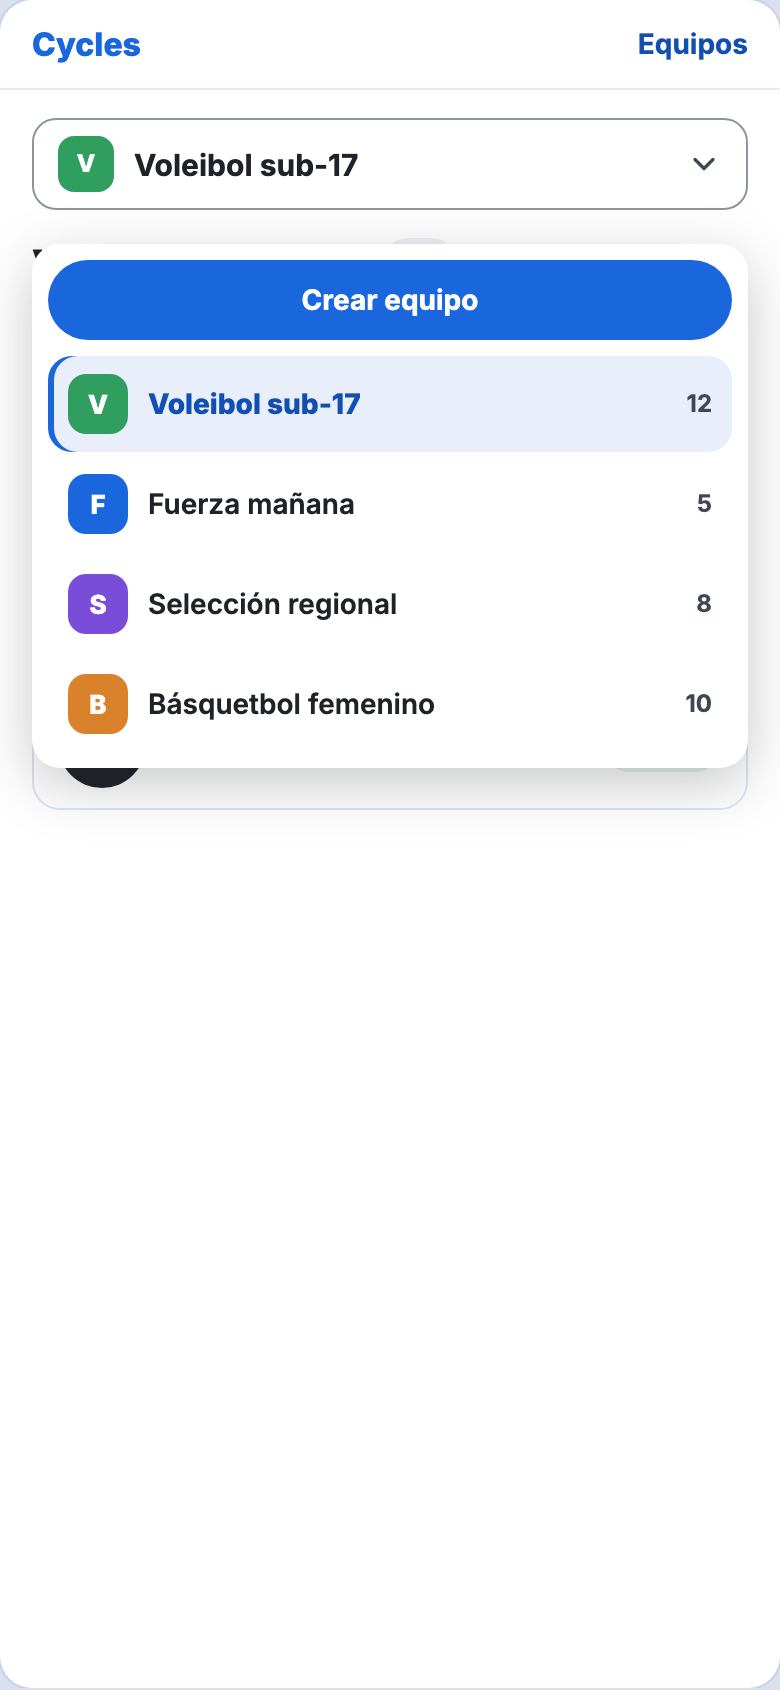
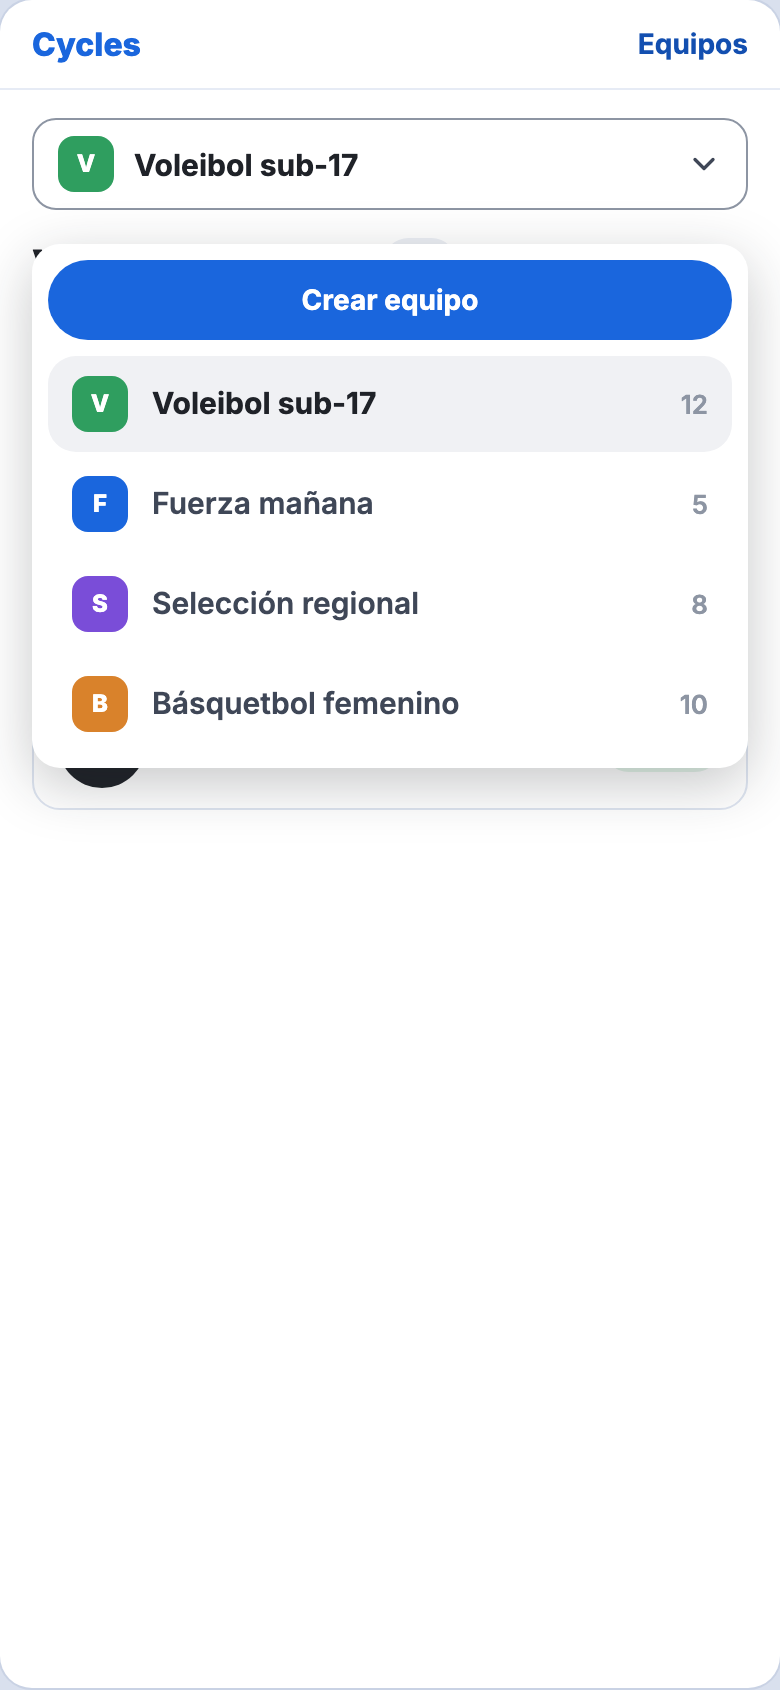
Equipos con sidebar simple, expandido y contraído (CYC-316)

diff --git a/docs/diseno/equipos-sidebar/propuestas.html b/docs/diseno/equipos-sidebar/propuestas.html
@@ -360,22 +360,28 @@ body{font-family:Inter,-apple-system,system-ui,sans-serif;background:#d9e0ee;col
 
 /* ===== CYC-316: Equipos con sidebar ===== */
 .web.sbw{padding-bottom:0;overflow:hidden}
-.s2sh{display:grid;grid-template-columns:260px 1fr;margin:0 -20px;min-height:520px}
-.s2sb{border-right:1px solid #e6ebf5;padding:16px 14px;display:flex;flex-direction:column;gap:12px;background:#fafbfe}
-.s2sb .s2top{display:flex;align-items:center;gap:8px}
-.s2sb .s2top h3{font:800 15px/1 Inter;margin:0;text-align:left}
-.s2sb .s2new{display:flex;align-items:center;justify-content:center;gap:8px;height:40px;border-radius:999px;background:#1a66dd;color:#fff;font:700 14px/1 Inter}
-.s2sb .s2new svg{width:16px;height:16px;stroke:#fff;fill:none;stroke-width:2.6;stroke-linecap:round}
-.s2sb .s2it{display:flex;align-items:center;gap:10px;border-radius:12px;padding:9px 10px;font:600 14px/1.2 Inter;color:#1f2228}
-.s2sb .s2it i{width:30px;height:30px;border-radius:9px;display:grid;place-items:center;color:#fff;font:800 13px/1 Inter;font-style:normal;flex:none}
-.s2sb .s2it span{flex:1;min-width:0;overflow:hidden;text-overflow:ellipsis;white-space:nowrap}
-.s2sb .s2it em{font:700 12px/1 Inter;font-style:normal;color:#3f4757}
-.s2sb .s2it.on{background:#e8effb;box-shadow:inset 3px 0 0 #1a66dd}
-.s2sb .s2it.on span{font-weight:800;color:#134fb0}
-.s2sb .s2list{display:grid;gap:2px}
-.s2sb .s2lst{max-height:330px;overflow:hidden;position:relative}
-.s2sb .s2fade{position:absolute;left:0;right:0;bottom:0;height:36px;background:linear-gradient(#fafbfe00,#fafbfe)}
-.s2sb .s2none{font:500 13px/1.45 Inter;color:#3f4757;padding:4px 6px}
+.s2sh{display:grid;grid-template-columns:var(--sbw,260px) 1fr;margin:0 -20px;min-height:520px}
+.s2sb{border-right:1px solid #e6ebf5;padding:14px 12px;display:flex;flex-direction:column;gap:10px;background:#fff}
+.s2sb .s2top{display:flex;align-items:center;gap:8px;padding:2px 6px 6px}
+.s2sb .s2ttl{font:800 18px/1 Inter;margin-right:auto}
+.s2sb .s2tg{width:34px;height:34px;display:grid;place-items:center;border-radius:10px}
+.s2sb .s2tg svg{width:22px;height:22px;stroke:#1f2228;fill:none;stroke-width:1.9;stroke-linecap:round;stroke-linejoin:round}
+.s2sb .s2it{display:flex;align-items:center;gap:12px;border-radius:14px;padding:10px 12px;font:600 15px/1.2 Inter;color:#3f4757;white-space:nowrap}
+.s2sb .s2it i{width:28px;height:28px;border-radius:8px;display:grid;place-items:center;color:#fff;font:800 12px/1 Inter;font-style:normal;flex:none}
+.s2sb .s2it span{flex:1;min-width:0;overflow:hidden;text-overflow:ellipsis}
+.s2sb .s2it em{font:600 13px/1 Inter;font-style:normal;color:#8d95a3}
+.s2sb .s2it.on{background:#f0f1f4;color:#1f2228;font-weight:700}
+.s2sb .s2it.add{color:#1f2228}
+.s2sb .s2it.add b{width:28px;height:28px;display:grid;place-items:center;flex:none}
+.s2sb .s2it.add svg{width:22px;height:22px;stroke:#1f2228;fill:none;stroke-width:1.9;stroke-linecap:round}
+.s2sb .s2list{display:grid;gap:2px;align-content:start;flex:1}
+.s2sb .s2foot{border-top:1px solid #e6ebf5;padding-top:10px}
+.s2sb .s2none{font:500 14px/1.45 Inter;color:#3f4757;padding:4px 12px}
+.s2sb.s2col{padding:14px 10px;align-items:center}
+.s2sb.s2col .s2top{padding:2px 0 6px;justify-content:center}
+.s2sb.s2col .s2it{padding:10px;gap:0;justify-content:center}
+.s2sb.s2col .s2list{justify-items:center}
+.s2sb.s2col .s2foot{width:100%;display:grid;justify-items:center}
 .s2mn{padding:18px 20px 22px;min-width:0;position:relative}
 .s2mn .ph1 h2{font:800 24px/1.1 Inter}
 .s2scrim{position:absolute;inset:0;background:rgba(31,34,40,.38);display:grid;place-items:center;z-index:6}
@@ -427,24 +433,29 @@ const tcard=(i,c,n,k,st)=>`<div class="tc"><div class="t"><i style="background:$
 const cbx=(on)=>`<i class="cbx ${on?'on':''}">${on?chk:''}</i>`;
 const TEAMS=[['V','#2f9e5f','Voleibol sub-17',12],['F','#1a66dd','Fuerza mañana',5],['S','#7a4dd8','Selección regional',8],['B','#d9822b','Básquetbol femenino',10],['A','#c2467a','Atletismo velocidad',6],['N','#2a8f9d','Natación máster',9],['R','#6b7280','Rugby juvenil',15],['T','#4f7fd1','Tenis competitivo',4],['G','#8a5a2b','Gimnasio general',7]];
 const plus=`<svg viewBox="0 0 24 24"><path d="M12 5v14M5 12h14"/></svg>`;
-const item=(t,on)=>`<div class="s2it ${on?'on':''}"><i style="background:${t[1]}">${t[0]}</i><span>${t[2]}</span><em>${t[3]}</em></div>`;
-const sidebar=(n,on,{search=false,fade=false,max=false}={})=>`<aside class="s2sb"><div class="s2top"><h3>Mis equipos</h3></div><span class="s2new">${plus}Crear equipo</span>${search?`<div class="srch" style="margin:0;height:38px">Buscar equipo</div>`:''}<div class="s2list ${max?'s2lst':''}">${TEAMS.slice(0,n).map((t,i)=>item(t,i===on)).join('')}${fade?'<div class="s2fade"></div>':''}</div></aside>`;
-const sbEmpty=`<aside class="s2sb"><div class="s2top"><h3>Mis equipos</h3></div><span class="s2new">${plus}Crear equipo</span><div class="s2none">Aún no tienes equipos. Cuando crees uno, aparecerá aquí.</div></aside>`;
+const panel=`<svg viewBox="0 0 24 24"><rect x="3.5" y="4.5" width="17" height="15" rx="3"/><path d="M9.5 4.5v15"/></svg>`;
+const item=(t,on,col)=>`<div class="s2it ${on?'on':''}" title="${t[2]}"><i style="background:${t[1]}">${t[0]}</i>${col?'':`<span>${t[2]}</span><em>${t[3]}</em>`}</div>`;
+const addIt=(col)=>`<div class="s2it add"><b>${plus}</b>${col?'':'<span>Crear equipo</span>'}</div>`;
+const sidebar=(n,on,{col=false}={})=>`<aside class="s2sb ${col?'s2col':''}"><div class="s2top">${col?'':'<span class="s2ttl">Equipos</span>'}<span class="s2tg">${panel}</span></div><div class="s2list">${TEAMS.slice(0,n).map((t,i)=>item(t,i===on,col)).join('')}</div><div class="s2foot">${addIt(col)}</div></aside>`;
+const sbEmpty=`<aside class="s2sb"><div class="s2top"><span class="s2ttl">Equipos</span><span class="s2tg">${panel}</span></div><div class="s2list"><div class="s2none">Aún no tienes equipos.</div></div><div class="s2foot">${addIt(false)}</div></aside>`;
 const mrow=(a,n,c,s,cl)=>`<div class="mt">${AVb(a)}<b>${n}</b><span>${c}</span><span class="chip ${cl}">${s}</span><u>Quitar</u></div>`;
 const detMain=(extra='')=>`<main class="s2mn"><div class="ph1"><h2>Voleibol sub-17</h2><span class="chip gr">12 atletas</span><div style="margin-left:auto;display:flex;gap:10px;align-items:center"><span class="bn sec" style="height:40px">Agregar atletas</span><span class="bn" style="height:40px">Agregar rutina</span><span class="bn sec" style="height:40px;padding:0 12px">⋯</span></div></div>
  <div class="tbl"><div class="mt h"><span></span><span>Atleta</span><span>Ciclo</span><span>Estado</span><span></span></div>
  ${mrow('VS','Valentina Soto','Fuerza base, sem. 2','Al día','ok')}${mrow('CR','Camila Rojas','Fuerza base, sem. 2','Con avisos','sk')}${mrow('JP','Josefa Pino','Fuerza base, sem. 2','Al día','ok')}${mrow('MV','Matías Vera','Sin ciclo','Sin ciclo','gr')}${mrow('AD','Antonia Díaz','—','Invitación pendiente','gr')}</div>${extra}</main>`;
-const shell=(side,main,navOn='Equipos')=>`<div class="web sbw">${NAV(navOn)}<div class="s2sh">${side}${main}</div></div>`;
+const shell=(side,main,navOn='Equipos',w=260)=>`<div class="web sbw">${NAV(navOn)}<div class="s2sh" style="--sbw:${w}px">${side}${main}</div></div>`;
 function conEquipos(){
- return shell(sidebar(3,0),detMain(`<div class="wnote" style="margin-top:12px">La navegación de Equipos vive en el sidebar: el equipo elegido se resalta y su detalle se abre a la derecha, sin salir de la pestaña. Ya no hay una pantalla de lista aparte.</div>`));
+ return shell(sidebar(3,0),detMain(`<div class="wnote" style="margin-top:12px">Sidebar expandido: tus equipos, el elegido en gris, y «Crear equipo» al pie. El botón de arriba a la derecha lo contrae.</div>`));
+}
+function contraida(){
+ return shell(sidebar(3,0,{col:true}),detMain(`<div class="wnote" style="margin-top:12px">Contraído, el sidebar queda en una columna angosta con la inicial de cada equipo. El botón de arriba lo expande de nuevo, y al pasar el cursor sobre un equipo se ve su nombre.</div>`),'Equipos',72);
 }
 function vacio2(){
  return shell(sbEmpty,`<main class="s2mn"><div class="ph1"><h2>Equipos</h2></div><div class="emp"><div class="ico"><svg viewBox="0 0 24 24"><circle cx="9" cy="8" r="3"/><circle cx="17" cy="9" r="2.5"/><path d="M3 19c0-3 3-5 6-5s6 2 6 5M15 15c3 0 6 1.5 6 4"/></svg></div><b>Crea tu primer equipo</b><p>Agrupa a tus atletas para darles la misma rutina a todos, cada uno con su propio peso.</p><span class="bn" style="height:44px;padding:0 24px">Crear equipo</span></div></main>`);
 }
 function muchos(){
- return shell(sidebar(9,2,{search:true,fade:true,max:true}),`<main class="s2mn"><div class="ph1"><h2>Selección regional</h2><span class="chip gr">8 atletas</span><div style="margin-left:auto;display:flex;gap:10px"><span class="bn sec" style="height:40px">Agregar atletas</span><span class="bn" style="height:40px">Agregar rutina</span><span class="bn sec" style="height:40px;padding:0 12px">⋯</span></div></div>
+ return shell(sidebar(9,2),`<main class="s2mn"><div class="ph1"><h2>Selección regional</h2><span class="chip gr">8 atletas</span><div style="margin-left:auto;display:flex;gap:10px"><span class="bn sec" style="height:40px">Agregar atletas</span><span class="bn" style="height:40px">Agregar rutina</span><span class="bn sec" style="height:40px;padding:0 12px">⋯</span></div></div>
  <div class="tbl"><div class="mt h"><span></span><span>Atleta</span><span>Ciclo</span><span>Estado</span><span></span></div>${mrow('FG','Fernanda Gil','Fuerza base, sem. 2','Al día','ok')}${mrow('IM','Isidora Mena','Fuerza base, sem. 2','Al día','ok')}${mrow('TL','Tomás León','Sin ciclo','Sin ciclo','gr')}</div>
- <div class="wnote" style="margin-top:12px">Con muchos equipos la lista del sidebar se desplaza sola y aparece un buscador. El equipo abierto se mantiene visible.</div></main>`);
+ <div class="wnote" style="margin-top:12px">Con muchos equipos la lista del sidebar se desplaza sola. El equipo abierto se mantiene visible y «Crear equipo» queda fijo abajo.</div></main>`);
 }
 function crearSb(){
  const row=(n,a,sel)=>`<div class="r ${sel?'sel':''}">${cbx(sel)}${AVb(a)}<span>${n}</span></div>`;
@@ -452,7 +463,7 @@ function crearSb(){
 }
 function nuevoSinAtletas(){
  const t=['B','#d9822b','Básquetbol femenino',0];
- return shell(`<aside class="s2sb"><div class="s2top"><h3>Mis equipos</h3></div><span class="s2new">${plus}Crear equipo</span><div class="s2list">${item(TEAMS[0],0)}${item(TEAMS[1],0)}${item(TEAMS[2],0)}${item(t,1)}</div></aside>`,`<main class="s2mn"><div class="ph1"><h2>Básquetbol femenino</h2><span class="chip gr">0 atletas</span><div style="margin-left:auto;display:flex;gap:10px"><span class="bn sec" style="height:40px;padding:0 12px">⋯</span></div></div>
+ return shell(`<aside class="s2sb"><div class="s2top"><span class="s2ttl">Equipos</span><span class="s2tg">${panel}</span></div><div class="s2list">${[TEAMS[0],TEAMS[1],TEAMS[2],t].map((x,i)=>item(x,i===3)).join('')}</div><div class="s2foot">${addIt(false)}</div></aside>`,`<main class="s2mn"><div class="ph1"><h2>Básquetbol femenino</h2><span class="chip gr">0 atletas</span><div style="margin-left:auto;display:flex;gap:10px"><span class="bn sec" style="height:40px;padding:0 12px">⋯</span></div></div>
  <div class="emp"><b>Este equipo aún no tiene atletas</b><p>Agrega a los que ya tienes para darles la misma rutina.</p><span class="bn" style="height:44px;padding:0 24px">Agregar atletas</span></div></main>`);
 }
 function angosto(open){
@@ -464,8 +475,8 @@ function angosto(open){
 }
 const out=document.getElementById('out');
 const add=(id,label,items)=>out.insertAdjacentHTML('beforeend',`<div class="lab">${label}</div><div class="row" id="${id}">${items.map(([c,h])=>`<div class="fr">${h}<div class="cap">${c}</div></div>`).join('')}</div>`);
-add('r1','1 · Equipos con sidebar',[['Con equipos: sidebar a la izquierda y el detalle del equipo elegido a la derecha',conEquipos()],['Sin equipos: el sidebar solo trae «Crear equipo»',vacio2()]]);
-add('r2','2 · Variantes del sidebar',[['Con muchos equipos: buscador y lista que se desplaza',muchos()],['Equipo recién creado, sin atletas',nuevoSinAtletas()]]);
+add('r1','1 · Sidebar expandido y contraído',[['Expandido: nombre y cantidad de atletas de cada equipo',conEquipos()],['Contraído: solo la inicial de cada equipo',contraida()]]);
+add('r2','2 · Otros estados',[['Sin equipos: el sidebar solo trae «Crear equipo»',vacio2()],['Con muchos equipos: la lista se desplaza',muchos()],['Equipo recién creado, sin atletas',nuevoSinAtletas()]]);
 add('r3','3 · Crear equipo desde el sidebar',[['Crear equipo: el mismo cuadro de CYC-308, sobre la pantalla con sidebar',crearSb()]]);
 add('r4','4 · Pantalla angosta (web en celular o ventana pequeña)',[['El sidebar se pliega en un selector de equipo',angosto(false)],['Selector abierto: lista de equipos y «Crear equipo»',angosto(true)]]);
 

diff --git a/docs/diseno/equipos-sidebar/README.md b/docs/diseno/equipos-sidebar/README.md
@@ -7,7 +7,7 @@ Rediseño de la pestaña Equipos (CYC-308): la navegación dentro de la pestaña
 | Antes (CYC-308) | Ahora |
 |---|---|
 | Pantalla de lista con tarjetas y pantalla de detalle aparte (`/equipos` y `/equipos/:id`) | Una sola pantalla: sidebar a la izquierda y detalle del equipo elegido a la derecha |
-| «Crear equipo» en el encabezado de la lista | «Crear equipo» arriba del sidebar; el cuadro de creación es el mismo |
+| «Crear equipo» en el encabezado de la lista | «Crear equipo» al pie del sidebar; el cuadro de creación es el mismo |
 | Botón «Agregar rutina al equipo» | «Agregar rutina» (el equipo ya está elegido en el sidebar) |
 | Botón «‹ Equipos» para volver a la lista | Ya no hace falta |
 
@@ -15,12 +15,13 @@ Todo lo demás del diseño aprobado se mantiene: cuadros de crear, agregar atlet
 
 ## Decisiones del diseño
 
-1. **Sidebar de 260 px** dentro de la pestaña, con «Crear equipo» arriba y la lista de equipos debajo. Cada equipo muestra su inicial con color, su nombre y cuántos atletas tiene. El elegido se resalta.
-2. **Al entrar a Equipos se abre el primer equipo.** Sin equipos, el sidebar solo trae «Crear equipo» y el área principal muestra el estado vacío.
-3. **Con muchos equipos** (más de 7) aparece un buscador y la lista se desplaza sola.
-4. **Equipo recién creado**: queda elegido y, si no tiene atletas, muestra «Este equipo aún no tiene atletas» con «Agregar atletas».
-5. **Pantalla angosta** (web en celular o ventana pequeña): el sidebar se pliega en un selector con el equipo actual; al abrirlo muestra «Crear equipo» y la lista.
-6. **La barra superior no cambia**: Equipos sigue siendo una pestaña más y el sidebar vive dentro de ella.
+1. **Sidebar simple**, como el ejemplo de la usuaria: encabezado «Equipos» con el botón que lo contrae, la lista de equipos (inicial con color, nombre y cantidad de atletas), el elegido en gris, y «Crear equipo» fijo al pie.
+2. **Expandido y contraído.** Contraído es una columna angosta con la inicial de cada equipo, el botón de expandir arriba y «+» al pie; el nombre se ve al pasar el cursor. Se recuerda la última elección.
+3. **Al entrar a Equipos se abre el primer equipo.** Sin equipos, el sidebar solo trae «Crear equipo» y el área principal muestra el estado vacío.
+4. **Con muchos equipos** la lista se desplaza y «Crear equipo» queda fijo abajo.
+5. **Equipo recién creado**: queda elegido y, sin atletas, muestra «Agregar atletas».
+6. **Pantalla angosta**: el sidebar se pliega en un selector con el equipo actual.
+7. **La barra superior no cambia**: Equipos sigue siendo una pestaña más.
 
 ## Para Desarrollo general
 
@@ -30,6 +31,6 @@ Todo lo demás del diseño aprobado se mantiene: cuadros de crear, agregar atlet
 
 ## Preguntas abiertas
 
-1. ¿«Crear equipo» arriba del sidebar, en vez de en el encabezado? Propongo que sí.
+1. ¿«Crear equipo» al pie del sidebar? Propongo que sí.
 2. ¿Al entrar se abre el primer equipo? Propongo que sí.
-3. ¿El buscador aparece con más de 7 equipos? Propongo ese umbral.
+3. ¿El sidebar recuerda si quedó contraído o expandido? Propongo que sí.
